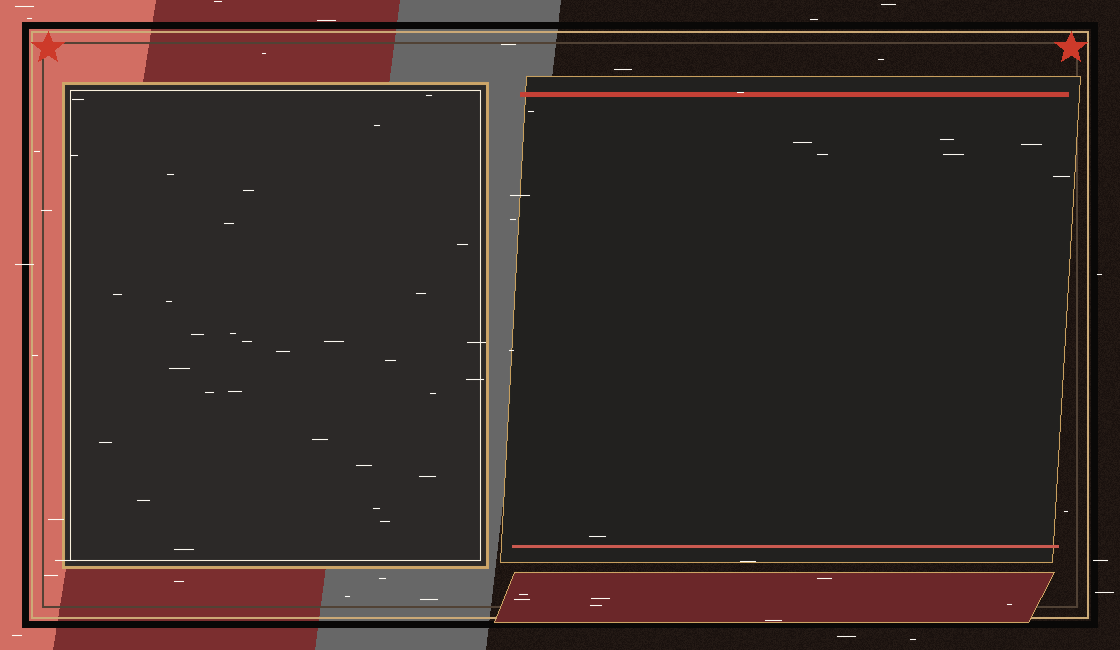
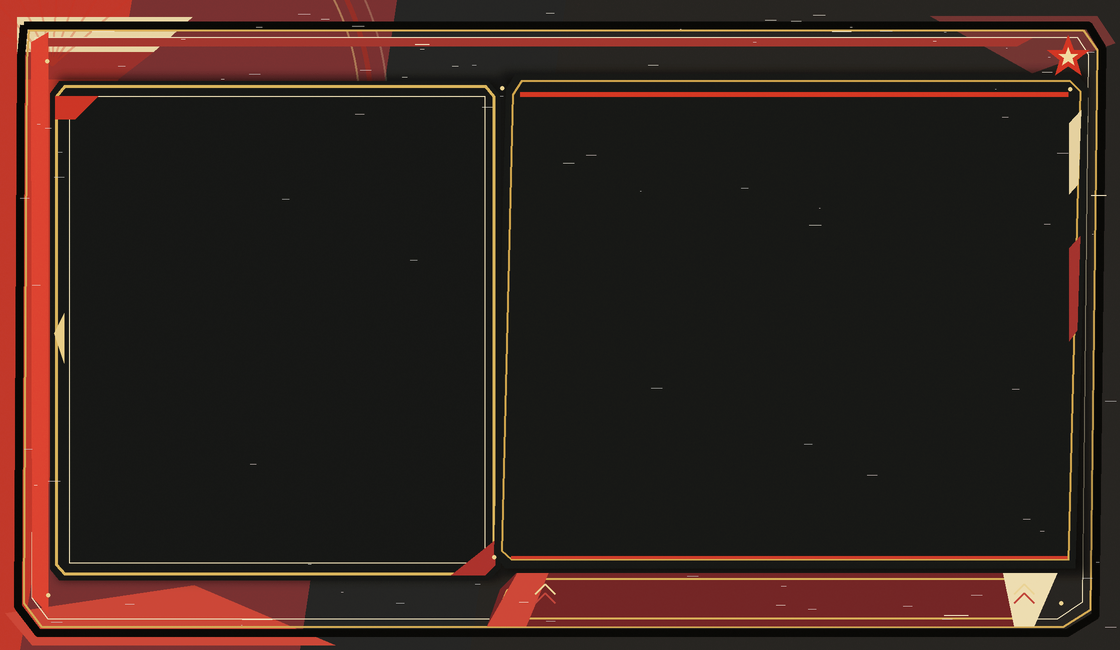
美化苏联成立超事件界面

Changed region(s): [[0.0, 0.0, 1.0, 1.0], [0.875, 0.1231, 0.9062, 0.1538], [0.6562, 0.1231, 0.6875, 0.1538]]

diff --git a/MOD制作日志.md b/MOD制作日志.md
@@ -703,7 +703,9 @@ mio:RUS_example_organization = {
 
 ### 2026-08-04
 
-- 修复苏联成立超事件没有显示的问题：为 scripted GUI 增加脏变量刷新，事件打开和按钮关闭时都会强制刷新界面；国策完成后延迟一小时打开，避免与国策结算界面抢占显示层级。
+- 重绘苏联成立超事件外框：采用更不对称的二十年代苏维埃构成主义画册装帧，增加旧金压线、纸张切面、铆钉、套色偏移和几何装饰，并提高正文与地图背景之间的遮蔽度。
+- 右侧宣言改为带可见竖向滑块的纯手动滚动区，关闭鼠标滚轮和正文拖拽滚动，移除底部滚动提示并扩大正文显示高度；完成成立苏联国策时立即触发超事件，不再延迟一小时。
+- 修复苏联成立超事件没有显示的问题：为 scripted GUI 增加脏变量刷新，事件打开和按钮关闭时都会强制刷新界面，确保国策完成时能够立即显示。
 - 新增开局与每日旧存档补齐逻辑：已经完成“成立苏维埃社会主义共和国联盟”、但尚未看过超事件的玩家，会在读取存档后自动补触发一次；关闭后记录已阅旗标，不会重复弹出。
 - 删除原 `news_stalin_form_sov.2` 国际新闻事件、国策中的延迟触发及其中英俄本地化，成立苏联时只保留新的宣言超事件。
 - 删除已被独立超事件取代的旧 `stalin_form_sov.22` 普通报告事件及其废弃选项本地化；保留 `stalin_form_sov.22.t/.desc` 作为新超事件的三语宣言文本来源。
